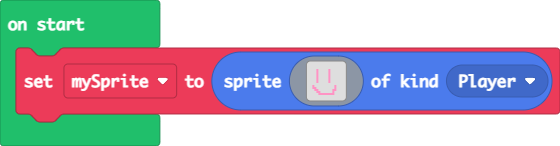
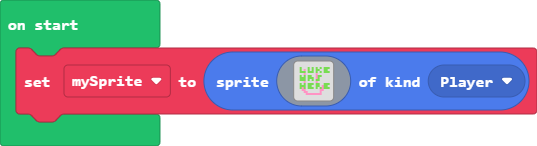
here

diff --git a/main.ts b/main.ts
@@ -1,16 +1,16 @@
 let mySprite = sprites.create(img`
     . . . . . . . . . . . . . . . . 
-    . . . . . . . . . . . . . . . . 
+    . 7 . . . 7 . 7 . 7 . 7 . 7 7 7 
+    . 7 . 3 . 7 . 7 . 7 7 . . 7 7 . 
+    . 7 7 7 . 7 7 7 . 7 . 7 . 7 7 7 
     . . . 3 . . . . . 3 . . . . . . 
+    . 7 . 7 . 7 7 . . 3 7 7 . . . . 
+    . 7 7 7 . 7 7 7 . 3 7 . . . . . 
+    . 7 7 7 . 7 . 7 . 7 7 . . . . . 
     . . . 3 . . . . . 3 . . . . . . 
-    . . . 3 . . . . . 3 . . . . . . 
-    . . . 3 . . . . . 3 . . . . . . 
-    . . . 3 . . . . . 3 . . . . . . 
-    . . . 3 . . . . . 3 . . . . . . 
-    . . . 3 . . . . . 3 . . . . . . 
-    . . . . . . . . . . . . . . . . 
-    . 3 . . . . . . . . . . 3 . . . 
-    . 3 3 . . . . . . . . . 3 . . . 
+    . 7 . 7 . 7 7 7 . 7 7 . . 7 7 7 
+    . 7 7 7 . 7 7 . . 7 7 . 3 7 7 . 
+    . 7 3 7 . 7 7 7 . 7 . 7 3 7 7 7 
     . . 3 3 . . . . . . . 3 3 . . . 
     . . . 3 3 . . . . . . 3 . . . . 
     . . . . 3 3 3 3 3 3 3 3 . . . . 
